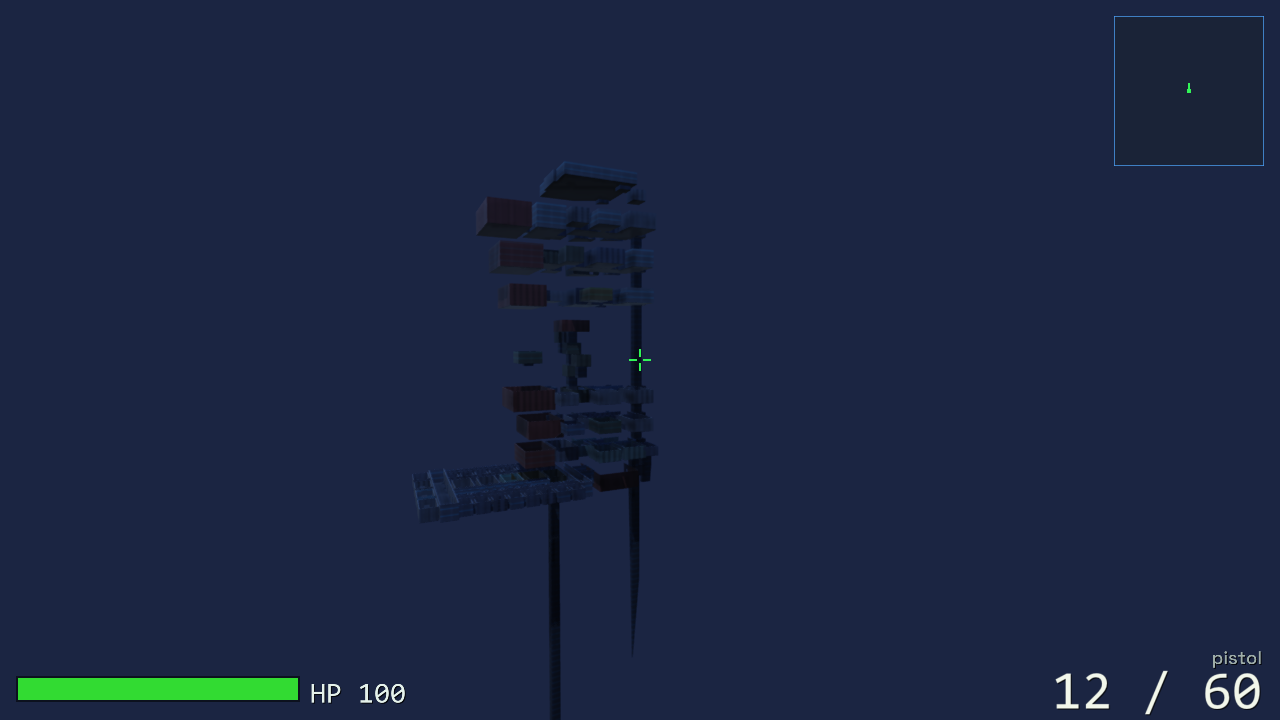
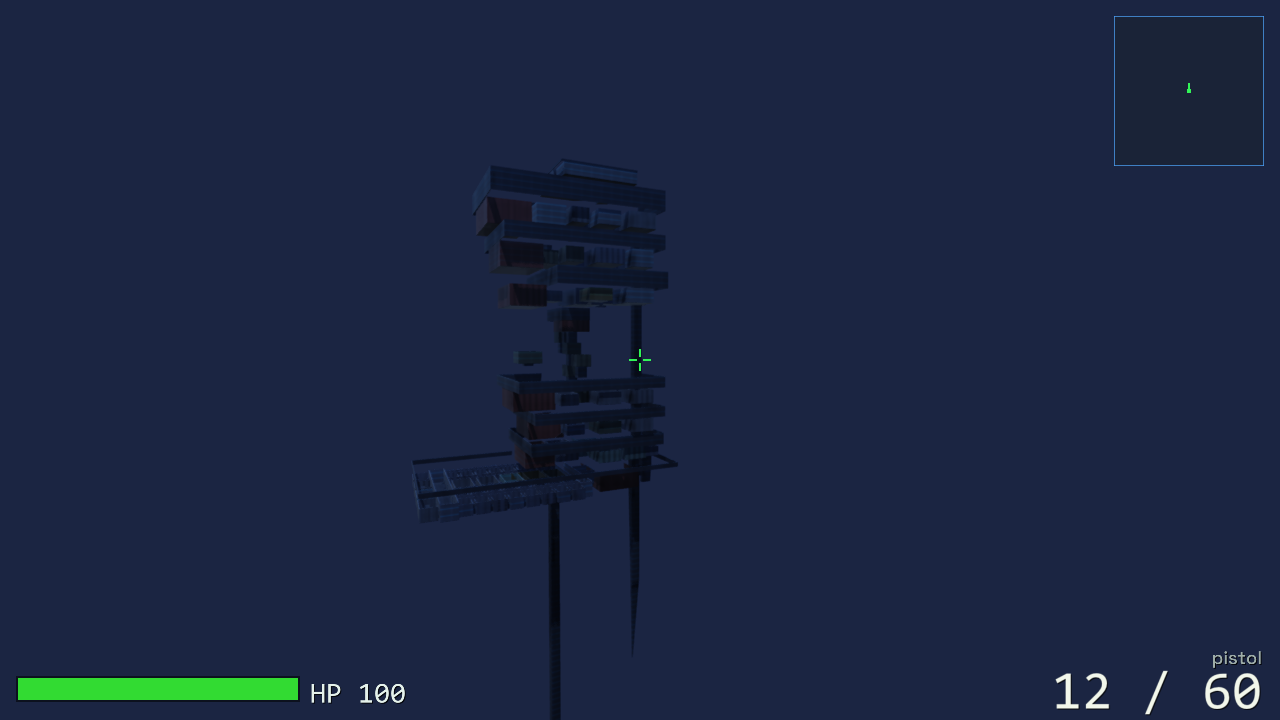
level: seal exterior inter-floor gaps + basic AAA structural pass (whole building)
The stacked floors leave a vertical VOID band between each floor's ceiling and
the next floor's deck (e.g. F1 ceiling y=5 -> F2 deck y=6.6). Interiors were
already sealed (every room has its own floor/ceiling/walls), but from OUTSIDE
the tower the floors read as floating plates. buildCanonFloor now wraps a thin
EXTERIOR SKIRT around each floor band's XZ perimeter, tall enough to close the
gap up to the next band, so the building reads as one continuous solid shell.

- Groups rooms into floor bands (10 m bins), computes each band's perimeter,
  fills the void to the next band with 4 thin skirt panels just OUTSIDE the
  footprint (never coincident with a room's outer wall => no z-fighting).
- GATED to the WHOLE BUILDING only: runs when >=2 bands AND the Y span >15 m
  (a single floor / canonlevel is untouched — C5 'all entities room-tagged'
  stays valid). 12 bands sealed with 36 skirt panels for the 7-floor + F4.5
  facility.
- Render-only exterior skin (collision stays the rooms' own walls); no interior
  geometry touched => no interior artifacts.

canonlevel(16)/building(10)/keypad(6)/canonplay(9)/loader(8) all green.
Cross-section proof re-shot (docs/proof/canon_building_crosssection.png) — the
tower now reads continuous, not floating plates.

Claude-Session: https://claude.ai/code/session_01E24mbCoNNfVChPDVpHC7v2

diff --git a/app/level_loader.cpp b/app/level_loader.cpp
@@ -22,6 +22,7 @@
 #include <memory>
 #include <sstream>
 #include <string>
+#include <map>
 #include <unordered_map>
 #include <utility>
 #include <vector>
@@ -1489,6 +1490,75 @@ void buildCanonFloor(CanonFloor& floor, Scene& scene,
             x3::logInfo("buildCanonFloor: locked " + std::to_string(nSec) +
                         " secured-room doors + placed a realistic high-poly keypad at each "
                         "(Security=card|1701, Medical=2480, Armory=card+8896)");
+        }
+    }
+
+    // ---- EXTERIOR SEAL + BASIC STRUCTURAL PASS (whole-building only). The stacked floors
+    // leave a VERTICAL VOID band between each floor's ceiling and the next floor's deck
+    // (e.g. F1 ceiling y=5 -> F2 deck y=6.6) — interiors are sealed (every room has its own
+    // floor/ceiling/walls), but from OUTSIDE the tower the floors read as floating plates.
+    // Wrap a thin EXTERIOR SKIRT around each floor band's XZ perimeter, tall enough to close
+    // the gap up to the next band, so the building reads as one continuous solid shell. Only
+    // touches the OUTER perimeter (interiors untouched => no interior artifacts), and is built
+    // only when the scene spans multiple Y bands (the building; a single floor is a no-op). ----
+    {
+        // Group rooms into floor bands by their floor elevation (snap to ~10 m bins, the
+        // canonical inter-floor spacing). Skip the deep cave/sub-level (y<-50).
+        struct Band { float floorY = 1e9f, ceilY = -1e9f, x0 = 1e9f, x1 = -1e9f, z0 = 1e9f, z1 = -1e9f;
+                      bool any = false; uint32_t rep = kNoRoom; };
+        std::map<int, Band> bands;
+        float yMin = 1e9f, yMax = -1e9f;
+        for (uint32_t ri = 0; ri < (uint32_t)floor.rooms.size(); ++ri) {
+            const CanonRoom& r = floor.rooms[ri];
+            if (r.cy < -50.0f) continue;                 // deep zone: own descent tube, no skirt
+            const int bin = (int)std::lround(r.cy / 10.0f);    // ~per-FLOOR bin (10 m canon spacing)
+            Band& b = bands[bin];
+            b.any = true;
+            if (b.rep == kNoRoom) b.rep = ri;            // a representative room for cull-tagging
+            b.floorY = std::min(b.floorY, r.y0());
+            b.ceilY  = std::max(b.ceilY,  r.y1());
+            b.x0 = std::min(b.x0, r.x0()); b.x1 = std::max(b.x1, r.x1());
+            b.z0 = std::min(b.z0, r.z0()); b.z1 = std::max(b.z1, r.z1());
+            yMin = std::min(yMin, r.y0()); yMax = std::max(yMax, r.y1());
+        }
+        // Only run for the WHOLE BUILDING (a real multi-floor Y span). A single floor
+        // (canonlevel) spans <15 m and is left untouched — no skirts, C5 stays valid.
+        if (bands.size() >= 2 && (yMax - yMin) > 15.0f) {
+            const float skirtTint[4] = { 0.30f, 0.33f, 0.40f, 1.0f };   // dark structural skin
+            // Make a flat surface texture handle reuse the wall texture.
+            uint32_t sealed = 0;
+            auto it = bands.begin();
+            for (; it != bands.end(); ++it) {
+                Band& b = it->second;
+                if (!b.any) continue;
+                // The skirt for this band spans from this band's ceiling up to the NEXT band's
+                // floor (the void). The last band gets a short parapet cap instead.
+                auto nx = std::next(it);
+                float topY = (nx != bands.end() && nx->second.any) ? nx->second.floorY : (b.ceilY + 0.6f);
+                float botY = b.ceilY;
+                if (topY - botY <= 0.05f) continue;       // bands already touch — no void
+                const float midY = (botY + topY) * 0.5f;
+                const float hY   = (topY - botY) * 0.5f;
+                // Four perimeter skirt walls (thin, just OUTSIDE this band's footprint so they
+                // never coincide with a room's outer wall plane => no z-fighting). Always-visible
+                // exterior skin (kNoRoom). Render-only (collision is the rooms' own walls).
+                const float t = kWallT * 0.5f, e = 0.04f;
+                auto skirt = [&](float hx, float hy, float hz, float cx, float cy, float cz) {
+                    uint32_t id = addBox(scene, device, physics, hx, hy, hz, cx, cy, cz,
+                                         wallTexA, skirtTint, kNoRoom, /*collide*/false, wallVis);
+                    if (id < scene.size()) scene.get(id).roomId = kNoRoom;
+                };
+                const float midX = (b.x0 + b.x1) * 0.5f, midZ = (b.z0 + b.z1) * 0.5f;
+                const float hxSpan = (b.x1 - b.x0) * 0.5f + e, hzSpan = (b.z1 - b.z0) * 0.5f + e;
+                skirt(hxSpan, hY, t, midX, midY, b.z0 - e - t);   // -Z face
+                skirt(hxSpan, hY, t, midX, midY, b.z1 + e + t);   // +Z face
+                skirt(t, hY, hzSpan, b.x0 - e - t, midY, midZ);   // -X face
+                skirt(t, hY, hzSpan, b.x1 + e + t, midY, midZ);   // +X face
+                sealed += 4;
+            }
+            x3::logInfo("buildCanonFloor: exterior structural pass sealed " +
+                        std::to_string(bands.size()) + " floor bands with " +
+                        std::to_string(sealed) + " skirt panels (no inter-floor gaps)");
         }
     }
 
